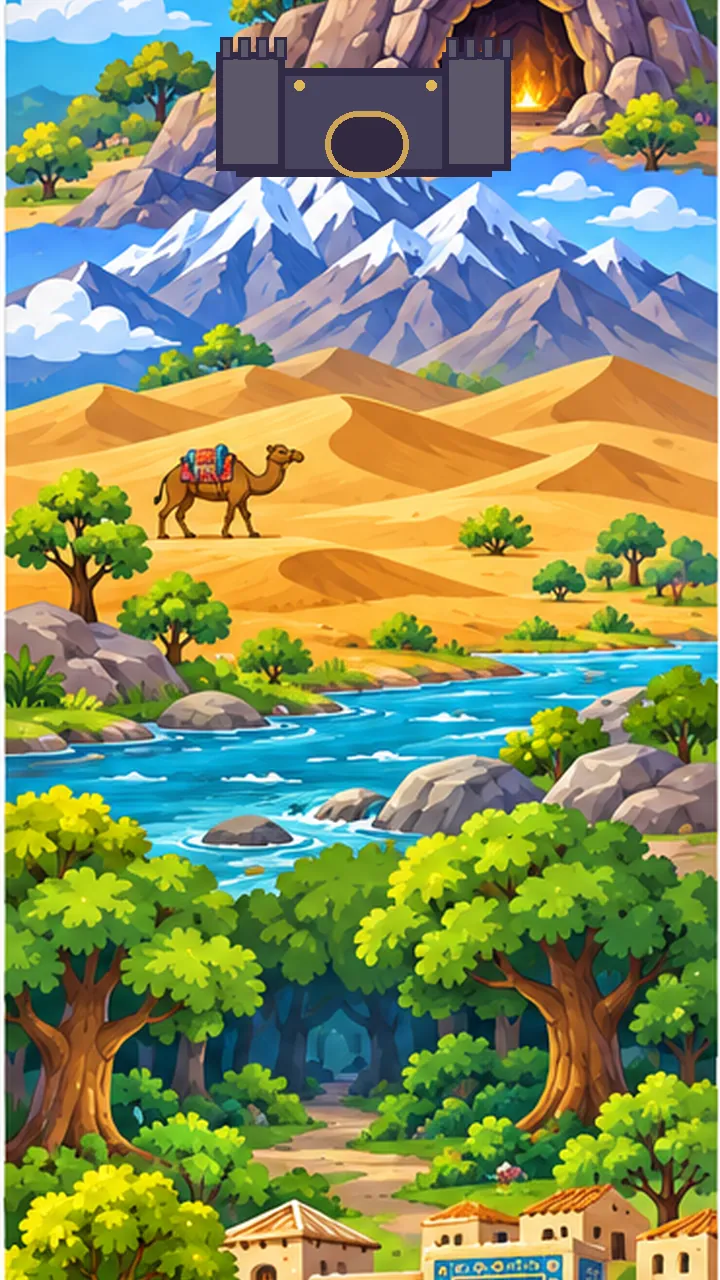
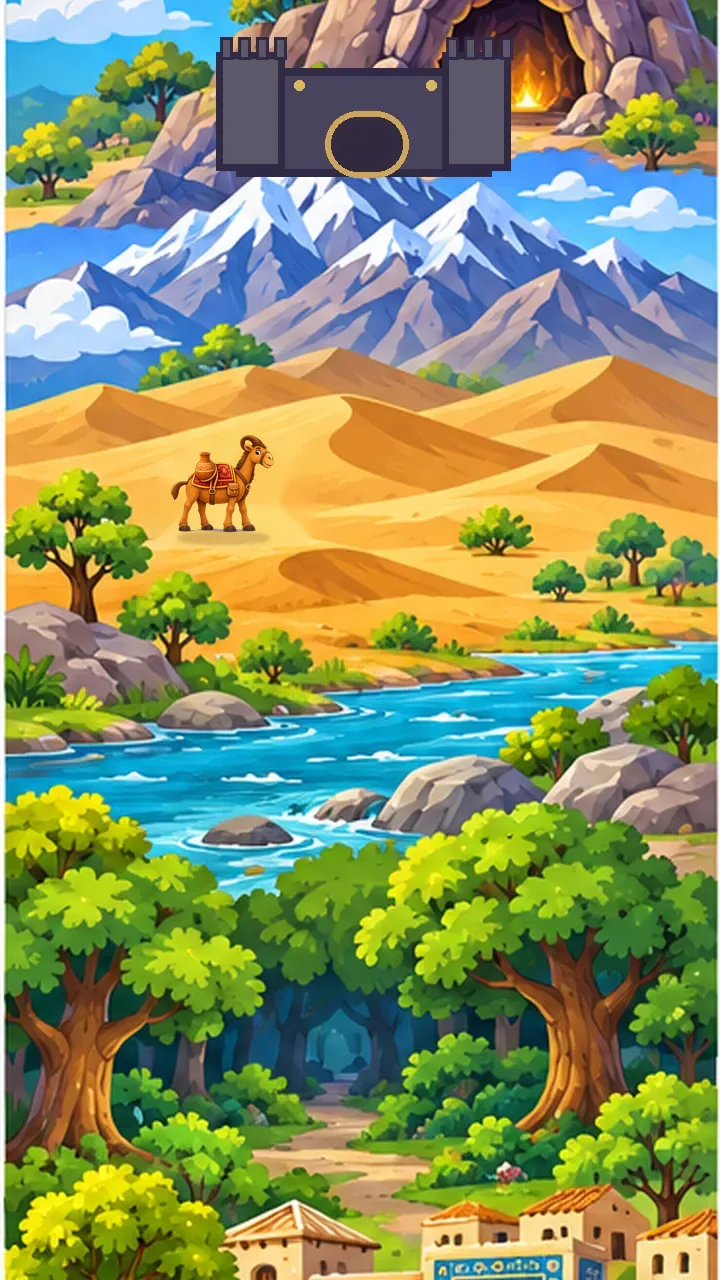
Rasmlar: eski tuya/"otcha" o'rniga foydalanuvchi bergan tuyalar
- karvon belgisi (xarita, labirint qahramoni): tuyaga mingan bola, xaritada 62px
- xarita, cho'l puzzle, sertifikat: qo'pol tuyalar o'chirilib, meshli tuya qo'yildi
- tools/tuya_almashtir.py: asl rasmlardan (tools/manba/asl) qayta quriladi

Claude-Session: https://claude.ai/code/session_019ZPPiN8SbsZkbAtxuoqv36

Changed region(s): [[0.2139, 0.3438, 0.4278, 0.4375]]

diff --git a/src/components/map/phaserMap.ts b/src/components/map/phaserMap.ts
@@ -106,9 +106,9 @@ class MapScene extends Phaser.Scene {
       }
       if (node.current) {
         const camel = this.textures.exists('caravan')
-          ? this.add.image(node.x - 42, node.y - 18, 'caravan').setDisplaySize(44, 44)
+          ? this.add.image(node.x - 52, node.y - 22, 'caravan').setDisplaySize(62, 62) // tuyaga mingan bola (foydalanuvchi rasmi)
           : text(node.x - 40, node.y - 18, '🐫', 30);
-        this.tweens.add({ targets: camel, y: node.y - 24, duration: 600, yoyo: true, repeat: -1 });
+        this.tweens.add({ targets: camel, y: node.y - 28, duration: 600, yoyo: true, repeat: -1 });
       }
     }
   }

diff --git a/tools/tuya_almashtir.py b/tools/tuya_almashtir.py
@@ -1,0 +1,112 @@
+"""Eski qo'pol tuya/"otcha" rasmlarini foydalanuvchi bergan tuyalar bilan almashtiradi.
+Manba: tools/manba/tuya-ikkita.png (chap — tuyaga mingan bola, o'ng — meshli tuya),
+asl rasmlar: tools/manba/asl/ (har safar asldan quriladi — skriptni qayta ishga tushirish xavfsiz).
+
+  karvon-belgi.webp      -> tuyaga mingan bola (xaritadagi karvon belgisi, labirint qahramoni)
+  xarita.webp            -> cho'ldagi tuya o'rniga meshli tuya
+  puzzle/chol.webp       -> cho'l puzzle rasmidagi tuya o'rniga meshli tuya
+  sertifikat-ramka.webp  -> tepadagi ikki qo'pol tuya o'rniga meshli tuya
+Ishlatish: python3 -I tools/tuya_almashtir.py
+"""
+from pathlib import Path
+
+import cv2
+import numpy as np
+from PIL import Image, ImageDraw, ImageFilter
+
+ROOT = Path(__file__).resolve().parents[1]
+ASL = ROOT / 'tools/manba/asl'
+IMG = ROOT / 'public/img'
+
+# ---- foydalanuvchi rasmidan ikki tuyani ajratish (tools/tuya.py bilan bir xil usul) ----
+from scipy import ndimage  # noqa: E402
+
+src = np.array(Image.open(ROOT / 'tools/manba/tuya-ikkita.png').convert('RGBA'))
+lab, n = ndimage.label(src[:, :, 3] > 20)
+centers = ndimage.center_of_mass(np.ones_like(lab), lab, range(1, n + 1))
+mid = src.shape[1] / 2
+xs = np.arange(src.shape[1])[None, :]
+soft = (src[:, :, 3] > 0) & (src[:, :, 3] <= 20)
+
+
+def part(right: bool) -> Image.Image:
+    ids = [i + 1 for i, c in enumerate(centers) if (c[1] >= mid) == right]
+    mask = np.isin(lab, ids) | (soft & ((xs >= mid) == right))
+    a = src.copy()
+    a[~mask, 3] = 0
+    rgb = a[:, :, :3].astype(int)
+    # pastdagi kulrang soyani olib tashlaymiz — har sahnada o'z rangidagi soya chiziladi
+    grey = (rgb.max(axis=2) - rgb.min(axis=2) < 55) & (rgb.min(axis=2) > 140)  # iliq kulrang soya
+    rows = np.arange(a.shape[0])[:, None] > a.shape[0] * 0.85
+    a[grey & rows, 3] = 0
+    im = Image.fromarray(a)
+    return im.crop(im.getbbox())
+
+
+RIDER = part(False)
+MESH = part(True)
+
+
+def fit_h(im: Image.Image, h: int) -> Image.Image:
+    return im.resize((round(im.size[0] * h / im.size[1]), h), Image.LANCZOS)
+
+
+def remove(scene: Image.Image, rect, extra_bg=(), dark_extra=None) -> Image.Image:
+    """rect ichidagi eski tuyani GrabCut bilan topib, atrofidagi fon bilan to'ldiradi (inpaint)."""
+    bgr = cv2.cvtColor(np.array(scene.convert('RGB')), cv2.COLOR_RGB2BGR)
+    mask = np.zeros(bgr.shape[:2], np.uint8)
+    b1, b2 = np.zeros((1, 65)), np.zeros((1, 65))
+    cv2.grabCut(bgr, mask, rect, b1, b2, 8, cv2.GC_INIT_WITH_RECT)
+    m = np.where((mask == 1) | (mask == 3), 255, 0).astype(np.uint8)
+    if dark_extra:  # ingichka qorong'i qismlar (dum uchi) GrabCut'dan qochib qolmasin
+        x0, y0, x1, y1 = dark_extra
+        lum = bgr[y0:y1, x0:x1].astype(int).sum(axis=2)
+        m[y0:y1, x0:x1][lum < 330] = 255
+    for (x0, y0, x1, y1) in extra_bg:
+        m[y0:y1, x0:x1] = 0
+    m = cv2.dilate(m, np.ones((9, 9), np.uint8))
+    out = cv2.inpaint(bgr, m, 9, cv2.INPAINT_TELEA)
+    return Image.fromarray(cv2.cvtColor(out, cv2.COLOR_BGR2RGB)).convert('RGBA')
+
+
+def put(scene: Image.Image, sprite: Image.Image, x: int, bottom: int, shadow=(120, 80, 40, 90)):
+    """Spraytni oyoqlari 'bottom' chizig'ida turadigan qilib qo'yadi, ostiga yumshoq soya."""
+    w, h = sprite.size
+    layer = Image.new('RGBA', scene.size, (0, 0, 0, 0))
+    ImageDraw.Draw(layer).ellipse((x + w * 0.08, bottom - h * 0.05, x + w * 0.92, bottom + h * 0.05), fill=shadow)
+    scene.alpha_composite(layer.filter(ImageFilter.GaussianBlur(max(2, h // 40))))
+    scene.alpha_composite(sprite, (x, bottom - h))
+
+
+# 1) Karvon belgisi: tuyaga mingan bola, 160x160 shaffof
+S = 160
+r = fit_h(RIDER, S - 8) if RIDER.size[1] >= RIDER.size[0] else RIDER.resize((S - 8, round(RIDER.size[1] * (S - 8) / RIDER.size[0])), Image.LANCZOS)
+icon = Image.new('RGBA', (S, S), (0, 0, 0, 0))
+icon.alpha_composite(r, ((S - r.size[0]) // 2, S - 4 - r.size[1]))
+icon.save(IMG / 'karvon-belgi.webp', 'WEBP', quality=88, method=6)
+print('karvon-belgi.webp', icon.size)
+
+# 2) Xarita: tuya taxminan (152..305, 443..536); daraxt chapda — unga tegmaymiz
+xarita = Image.open(ASL / 'xarita.webp').convert('RGBA')
+xarita = remove(xarita, (148, 436, 164, 106), extra_bg=[(0, 470, 146, 640)], dark_extra=(146, 470, 200, 520))
+put(xarita, fit_h(MESH, 104), 170, 538, shadow=(150, 95, 40, 80))
+xarita.convert('RGB').save(IMG / 'xarita.webp', 'WEBP', quality=82, method=6)
+print('xarita.webp', xarita.size)
+
+# 3) Cho'l puzzle: tuya (0..385, 395..720)
+chol = Image.open(ASL / 'puzzle_chol.webp').convert('RGBA')
+chol = remove(chol, (0, 388, 392, 335), extra_bg=[(300, 630, 480, 720)])
+put(chol, fit_h(MESH, 340), 18, 718, shadow=(150, 95, 40, 90))
+chol.convert('RGB').save(IMG / 'puzzle/chol.webp', 'WEBP', quality=82, method=6)
+print('puzzle/chol.webp', chol.size)
+
+# 4) Sertifikat: ikki qo'pol tuya -> fon rangi bilan yopib, meshli tuya
+cert = Image.open(ASL / 'sertifikat-ramka.webp').convert('RGBA')
+bg = cert.getpixel((640, 400))
+d = ImageDraw.Draw(cert)
+small = fit_h(MESH, 96)
+for x0 in (290, 855):
+    d.rectangle((x0, 172, x0 + 115, 266), fill=bg)
+    cert.alpha_composite(small, (x0 + (115 - small.size[0]) // 2, 266 - small.size[1]))
+cert.convert('RGB').save(IMG / 'sertifikat-ramka.webp', 'WEBP', quality=85, method=6)
+print('sertifikat-ramka.webp', cert.size)
